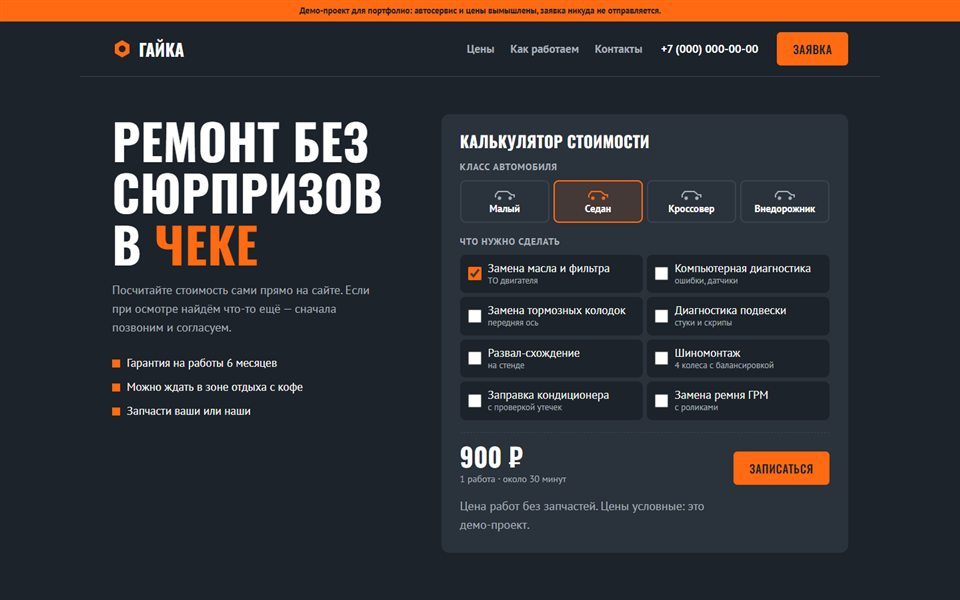
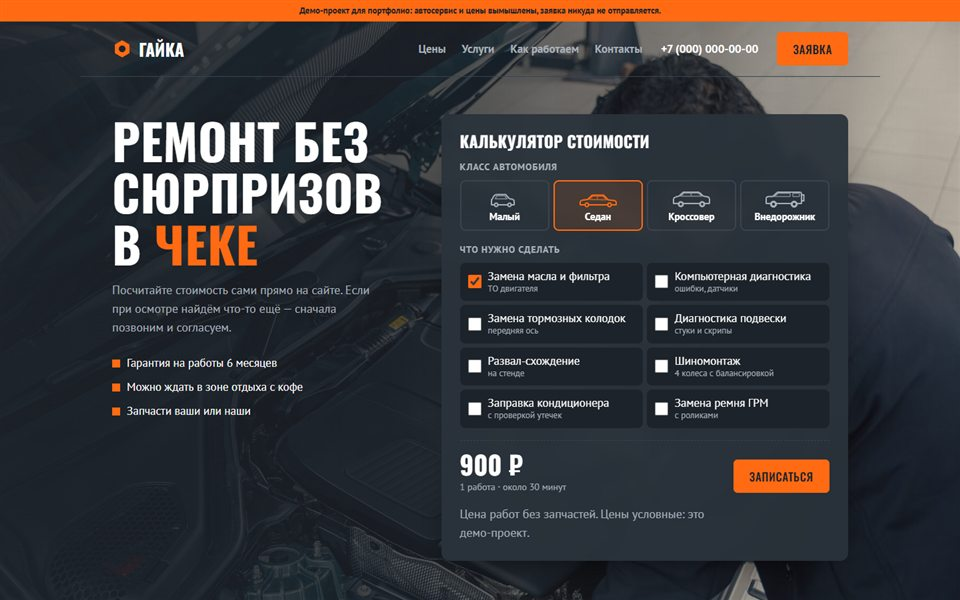
Демо-лендинги: фото с Unsplash, галереи, разные силуэты машин

diff --git a/demo-autoservice/index.html b/demo-autoservice/index.html
@@ -40,7 +40,26 @@
   .btn-signal:hover { background: var(--signal-deep); }
   .btn:disabled { opacity: .7; cursor: progress; transform: none; }
 
-  .top { background: var(--graphite); color: var(--white); }
+  .top {
+    color: var(--white);
+    background:
+      linear-gradient(90deg, rgba(29, 35, 42, .94) 0%, rgba(29, 35, 42, .78) 40%, rgba(29, 35, 42, .25) 100%),
+      url("https://images.unsplash.com/photo-1771340012378-3c86cb649193?auto=format&fit=crop&w=2000&q=70") center / cover no-repeat,
+      var(--graphite);
+  }
+  .top .calc { box-shadow: 0 30px 60px -30px rgba(0, 0, 0, .7); backdrop-filter: blur(6px); background: rgba(42, 50, 59, .94); }
+
+  /* Услуги с фото */
+  .services { display: grid; grid-template-columns: repeat(3, minmax(0, 1fr)); gap: 16px; }
+  .service { position: relative; border-radius: 12px; overflow: hidden; background: var(--graphite); color: var(--white); min-height: 320px; display: flex; align-items: flex-end; }
+  .service img { position: absolute; inset: 0; width: 100%; height: 100%; object-fit: cover; transition: transform .6s var(--ease); }
+  .service:hover img { transform: scale(1.05); }
+  .service::after { content: ""; position: absolute; inset: 0; background: linear-gradient(to top, rgba(20, 24, 29, .92) 10%, rgba(20, 24, 29, 0) 65%); }
+  .service div { position: relative; z-index: 1; padding: 22px; }
+  .service h3 { font-size: 1.5rem; margin-bottom: 4px; }
+  .service p { margin: 0; color: #cfd5dc; }
+  .service b { color: var(--signal); font: 700 1.125rem 'Oswald', sans-serif; }
+  .workshop { display: block; width: 100%; height: auto; aspect-ratio: 21 / 8; object-fit: cover; border-radius: 12px; margin-bottom: 36px; }
   .site-header { display: flex; align-items: center; gap: 28px; padding-block: 16px; border-bottom: 1px solid var(--steel-line); }
   .logo { display: flex; align-items: center; gap: 10px; font: 700 1.6rem 'Oswald', sans-serif; text-transform: uppercase; color: var(--white); text-decoration: none; }
   .site-header nav { display: flex; gap: 24px; margin-left: auto; }
@@ -61,7 +80,7 @@
   .calc h2 { font-size: 1.5rem; margin-bottom: 16px; }
   .label { display: block; margin: 0 0 8px; color: var(--muted); font-size: .875rem; font-weight: 700; text-transform: uppercase; letter-spacing: .06em; }
   .classes { display: grid; grid-template-columns: repeat(4, minmax(0, 1fr)); gap: 6px; margin-bottom: 18px; }
-  .cls { min-height: 64px; padding: 6px; border: 2px solid var(--steel-line); border-radius: 8px; background: transparent; color: var(--white); font: 700 .9375rem 'PT Sans', sans-serif; cursor: pointer; display: flex; flex-direction: column; align-items: center; justify-content: center; gap: 2px; }
+  .cls { min-height: 76px; padding: 6px; border: 2px solid var(--steel-line); border-radius: 8px; background: transparent; color: var(--white); font: 700 .9375rem 'PT Sans', sans-serif; cursor: pointer; display: flex; flex-direction: column; align-items: center; justify-content: center; gap: 2px; }
   .cls svg { color: var(--muted); }
   .cls[aria-pressed="true"] { border-color: var(--signal); background: rgba(255, 106, 19, .12); }
   .cls[aria-pressed="true"] svg { color: var(--signal); }
@@ -119,7 +138,9 @@
     .site-header nav, .phone-top { display: none; }
     .site-header { justify-content: space-between; }
     .classes { grid-template-columns: repeat(2, minmax(0, 1fr)); }
-    .works, .form-grid, .facts, .steps { grid-template-columns: minmax(0, 1fr); }
+    .works, .form-grid, .facts, .steps, .services { grid-template-columns: minmax(0, 1fr); }
+    .service { min-height: 260px; }
+    .workshop { aspect-ratio: 4 / 3; }
   }
   @media (prefers-reduced-motion: reduce) { html { scroll-behavior: auto; } * { transition: none !important; } }
 </style>
@@ -133,7 +154,7 @@
       <svg width="30" height="30" viewBox="0 0 30 30" aria-hidden="true"><path d="M15 2 26 8.5v13L15 28 4 21.5v-13Z" fill="#ff6a13"/><circle cx="15" cy="15" r="5" fill="#1d232a"/></svg>
       Гайка
     </a>
-    <nav aria-label="Разделы"><a href="#calc">Цены</a><a href="#how">Как работаем</a><a href="#contacts">Контакты</a></nav>
+    <nav aria-label="Разделы"><a href="#calc">Цены</a><a href="#services">Услуги</a><a href="#how">Как работаем</a><a href="#contacts">Контакты</a></nav>
     <span class="phone-top">+7 (000) 000-00-00</span>
     <a class="btn btn-signal" href="#request">Заявка</a>
   </header>
@@ -165,8 +186,21 @@
 </div>
 
 <main>
-  <section class="section" id="how" aria-labelledby="how-title">
+  <section class="section" id="services" aria-labelledby="services-title">
     <div class="wrap">
+      <h2 class="big" id="services-title">Чем занимаемся</h2>
+      <p class="section-lead">Обслуживание и ремонт легковых машин любых марок. Самое частое — ниже, остальное посчитает мастер по телефону.</p>
+      <div class="services">
+        <article class="service"><img src="https://images.unsplash.com/photo-1645445522156-9ac06bc7a767?auto=format&fit=crop&w=800&h=900&q=72" alt="Мастер снимает колесо" loading="lazy" width="800" height="900"><div><h3>Шиномонтаж</h3><p>Сезонная замена, балансировка, ремонт проколов — от <b>2 400 ₽</b></p></div></article>
+        <article class="service"><img src="https://images.unsplash.com/photo-1487754180451-c456f719a1fc?auto=format&fit=crop&w=800&h=900&q=72" alt="Заливка масла в двигатель" loading="lazy" width="800" height="900"><div><h3>ТО и масло</h3><p>Замена масла и фильтров за 30 минут — от <b>900 ₽</b></p></div></article>
+        <article class="service"><img src="https://images.unsplash.com/photo-1625047509248-ec889cbff17f?auto=format&fit=crop&w=800&h=900&q=72" alt="Подкапотное пространство автомобиля" loading="lazy" width="800" height="900"><div><h3>Диагностика</h3><p>Компьютерная проверка, поиск стуков и утечек — от <b>800 ₽</b></p></div></article>
+      </div>
+    </div>
+  </section>
+
+  <section class="section" id="how" aria-labelledby="how-title" style="padding-top:0">
+    <div class="wrap">
+      <img class="workshop" src="https://images.unsplash.com/photo-1767681092416-bccf9410bda4?auto=format&fit=crop&w=1800&h=690&q=70" alt="Цех автосервиса с машинами на подъёмниках" loading="lazy" width="1800" height="690">
       <h2 class="big" id="how-title">Как работаем</h2>
       <p class="section-lead">Без навязанных работ: делаем только то, что согласовали с вами.</p>
       <ol class="steps">
@@ -210,12 +244,19 @@
     </div>
   </section>
 </main>
-<footer><div class="wrap">«Гайка» — демо-проект для портфолио. Автосервис и цены вымышлены.</div></footer>
+<footer><div class="wrap">«Гайка» — демо-проект для портфолио. Автосервис и цены вымышлены. Фото: Unsplash.</div></footer>
 
 <script>
 (() => {
   const $ = (s) => document.querySelector(s);
-  const CAR = '<svg width="34" height="18" viewBox="0 0 34 18" aria-hidden="true"><path d="M3 13V9l4-5h14l6 5h4v4" fill="none" stroke="currentColor" stroke-width="2" stroke-linejoin="round"/><circle cx="9" cy="14" r="2.6" fill="currentColor"/><circle cx="25" cy="14" r="2.6" fill="currentColor"/></svg>';
+  // силуэты сбоку: от маленького трёхдверного хэтчбека до высокого внедорожника
+  const car = (body, glass, wheels, extra = '') => `<svg width="64" height="30" viewBox="0 0 64 30" aria-hidden="true"><path d="${body}" fill="none" stroke="currentColor" stroke-width="2" stroke-linejoin="round"/><path d="${glass}" fill="none" stroke="currentColor" stroke-width="1.6" stroke-linejoin="round" opacity=".7"/>${extra}${wheels.map(([x, y, r]) => `<circle cx="${x}" cy="${y}" r="${r}" fill="currentColor"/><circle cx="${x}" cy="${y}" r="${r * 0.4}" fill="var(--steel)"/>`).join('')}</svg>`;
+  const ICONS = [
+    car('M12 24H46V19Q46 16 43 15.5L39 15 33 8.5H20Q17 8.5 15.5 11L12 17Z', 'M17.5 15 20 10.5H31.5L35.5 15Z', [[19, 24, 3.6], [39, 24, 3.6]]),
+    car('M5 24H59V20Q59 18 56 17.6L47 16.5 40 9.5H23L16 16 8 17Q5 17.6 5 20Z', 'M18 16 24 11H39L44.5 16.5ZM31 11V16.3', [[15, 24, 3.8], [49, 24, 3.8]]),
+    car('M5 22H59V15Q59 12.5 56 12L50 11 43 5H20L13 11 9 12Q5 13 5 16Z', 'M15.5 11 21 6.5H42L47.5 11ZM31.5 6.5V11', [[16, 23, 4.6], [48, 23, 4.6]]),
+    car('M4 22H57V8Q57 5 54 5H21L14 11.5H8Q4 11.5 4 15Z', 'M16.5 11.5 21.8 6.8H40V11.5ZM44 6.8H54V11.5H44Z', [[15, 23, 5.2], [46, 23, 5.2]], '<path d="M57 9H60.5V18H57" fill="none" stroke="currentColor" stroke-width="2" stroke-linejoin="round"/>'),
+  ];
   const CLASSES = [['Малый', 0.85], ['Седан', 1], ['Кроссовер', 1.2], ['Внедорожник', 1.45]];
   // название, подпись, цена для седана, часы
   const WORKS = [
@@ -233,7 +274,7 @@
   const rub = (n) => `${(Math.round(n / 50) * 50).toLocaleString('ru-RU')} ₽`;
   const plural = (n, a, b, c) => { const t = n % 10, x = n % 100; return t === 1 && x !== 11 ? a : t >= 2 && t <= 4 && (x < 12 || x > 14) ? b : c; };
 
-  $('#classes').innerHTML = CLASSES.map(([n], i) => `<button type="button" class="cls" data-c="${i}" aria-pressed="${i === cls}">${CAR}${n}</button>`).join('');
+  $('#classes').innerHTML = CLASSES.map(([n], i) => `<button type="button" class="cls" data-c="${i}" aria-pressed="${i === cls}">${ICONS[i]}${n}</button>`).join('');
   document.querySelectorAll('[data-c]').forEach((b) => b.addEventListener('click', () => { cls = Number(b.dataset.c); update(); }));
   $('#works').innerHTML = WORKS.map(([n, s], i) => `<label class="work"><input type="checkbox" data-w="${i}" ${chosen.has(i) ? 'checked' : ''}><span>${n}<small>${s}</small></span></label>`).join('');
   document.querySelectorAll('[data-w]').forEach((c) => c.addEventListener('change', () => {

diff --git a/demo-nails/index.html b/demo-nails/index.html
@@ -36,6 +36,9 @@
   .btn { display: inline-flex; align-items: center; justify-content: center; min-height: 50px; padding: 0 26px; border: 0; border-radius: 999px; font: 700 1rem 'Manrope', sans-serif; text-decoration: none; cursor: pointer; transition: transform .25s var(--ease), background-color .2s; }
   .btn:hover { transform: translateY(-2px); }
   .btn-light { background: var(--white); color: var(--cherry); }
+  .btn-outline { background: transparent; color: var(--white); box-shadow: inset 0 0 0 2px rgba(255, 255, 255, .5); }
+  .btn-outline:hover { box-shadow: inset 0 0 0 2px var(--white); }
+  .hero-actions { display: flex; gap: 10px; flex-wrap: wrap; }
   .btn-cherry { background: var(--cherry); color: var(--white); }
   .btn-cherry:hover { background: var(--cherry-deep); }
   .btn:disabled { opacity: .7; cursor: progress; transform: none; }
@@ -53,6 +56,29 @@
   .hero h1 { font-size: clamp(2.4rem, 1.2rem + 4vw, 4.4rem); }
   .lead { margin: 18px 0 26px; max-width: 42ch; font-size: 1.125rem; color: var(--blush); }
 
+  /* Фото-коллаж на первом экране */
+  .collage { position: relative; padding: 0 0 32px 0; }
+  .c-main { display: block; width: 84%; height: auto; aspect-ratio: 4 / 5; object-fit: cover; border-radius: 32px; margin-left: auto; box-shadow: 0 40px 80px -40px rgba(0, 0, 0, .6); }
+  .c-small { position: absolute; left: 0; bottom: 0; width: 42%; height: auto; aspect-ratio: 1; object-fit: cover; border-radius: 24px; border: 6px solid var(--cherry); box-shadow: 0 24px 48px -24px rgba(0, 0, 0, .6); }
+  .badge { position: absolute; right: -8px; top: 28px; display: flex; align-items: center; gap: 10px; padding: 12px 18px; border-radius: 999px; background: var(--white); color: var(--ink); font-weight: 700; font-size: .9375rem; box-shadow: 0 16px 32px -16px rgba(0, 0, 0, .5); }
+
+  /* Галерея работ */
+  .gallery-sec { background: var(--petal); }
+  .sec-head { display: grid; grid-template-columns: minmax(0, 5fr) minmax(0, 7fr); gap: 12px clamp(24px, 4vw, 64px); align-items: end; margin-bottom: clamp(28px, 4vw, 48px); }
+  .sec-head h2 { margin: 0; }
+  .sec-head p { margin: 0; max-width: 52ch; color: var(--ink-soft); }
+  .gallery { display: grid; grid-template-columns: repeat(3, minmax(0, 1fr)); gap: clamp(10px, 1.6vw, 20px); }
+  .gallery figure { position: relative; margin: 0; border-radius: 22px; overflow: hidden; background: var(--blush); }
+  .gallery figure:nth-child(3n + 2) { transform: translateY(32px); }
+  .gallery img { display: block; width: 100%; height: auto; aspect-ratio: 4 / 5; object-fit: cover; transition: transform .6s var(--ease); }
+  .gallery figure:hover img { transform: scale(1.05); }
+  .gallery figcaption { position: absolute; left: 12px; bottom: 12px; padding: 7px 14px; border-radius: 999px; background: rgba(255, 255, 255, .92); color: var(--ink); font-weight: 700; font-size: .875rem; }
+  .credit { margin: 52px 0 0; color: var(--ink-soft); font-size: .8125rem; }
+
+  /* Подбор цвета */
+  .studio-sec { background: var(--cherry); color: var(--white); }
+  .studio-grid { display: grid; grid-template-columns: minmax(0, 5fr) minmax(0, 6fr); gap: 32px clamp(24px, 5vw, 72px); align-items: center; }
+  .studio-sec h2 { margin-bottom: 0; }
   .studio { background: var(--cherry-deep); border-radius: 28px; padding: clamp(18px, 2.4vw, 28px); }
   .fingers { display: block; width: 100%; height: auto; }
   .fingers .nail { transition: fill .5s var(--ease); }
@@ -119,7 +145,11 @@
   footer { background: var(--ink); color: var(--blush); font-size: .875rem; padding-block: 0 28px; opacity: .85; }
 
   @media (max-width: 900px) {
-    .hero-grid, .booking-grid { grid-template-columns: minmax(0, 1fr); }
+    .hero-grid, .booking-grid, .studio-grid, .sec-head { grid-template-columns: minmax(0, 1fr); }
+    .gallery { grid-template-columns: repeat(2, minmax(0, 1fr)); }
+    .gallery figure:nth-child(3n + 2) { transform: none; }
+    .credit { margin-top: 20px; }
+    .badge { right: 0; }
     .prices { grid-template-columns: minmax(0, 1fr); }
   }
   @media (max-width: 680px) {
@@ -137,17 +167,52 @@
 <div class="hero">
   <header class="wrap site-header">
     <a class="logo" href="#top">Палитра</a>
-    <nav aria-label="Разделы"><a href="#prices">Цены</a><a href="#masters">Мастера</a><a href="#contacts">Контакты</a></nav>
+    <nav aria-label="Разделы"><a href="#works">Работы</a><a href="#prices">Цены</a><a href="#masters">Мастера</a><a href="#contacts">Контакты</a></nav>
     <a class="btn btn-light" href="#booking">Записаться</a>
   </header>
 
   <section class="wrap hero-grid" aria-labelledby="hero-title">
     <div>
       <h1 id="hero-title">Маникюр в цвете вашего настроения</h1>
-      <p class="lead">Студия маникюра и педикюра. Выберите оттенок прямо здесь — мастер подготовит его к вашему визиту.</p>
-      <a class="btn btn-light" href="#booking">Записаться онлайн</a>
+      <p class="lead">Студия маникюра и педикюра. Подберите оттенок прямо на сайте — мастер подготовит его к вашему визиту.</p>
+      <div class="hero-actions"><a class="btn btn-light" href="#booking">Записаться онлайн</a><a class="btn btn-outline" href="#color">Подобрать цвет</a></div>
     </div>
 
+    <div class="collage">
+      <img class="c-main" src="https://images.unsplash.com/photo-1632345031435-8727f6897d53?auto=format&fit=crop&w=1000&h=1250&q=75" alt="Мастер делает маникюр клиентке" width="1000" height="1250">
+      <img class="c-small" src="https://images.unsplash.com/photo-1607779097040-26e80aa78e66?auto=format&fit=crop&w=600&h=600&q=75" alt="Маникюр с лавандовым покрытием и блёстками" width="600" height="600">
+      <div class="badge">
+        <svg width="22" height="22" viewBox="0 0 22 22" aria-hidden="true"><circle cx="11" cy="11" r="10" fill="#6d0f2a"/><path d="m6.5 11.3 3 3 6-6.6" fill="none" stroke="#fff" stroke-width="2.2" stroke-linecap="round" stroke-linejoin="round"/></svg>
+        Онлайн-запись за 1 минуту
+      </div>
+    </div>
+  </section>
+</div>
+
+<section class="section gallery-sec" id="works" aria-labelledby="works-title">
+  <div class="wrap">
+    <div class="sec-head">
+      <h2 id="works-title">Наши работы</h2>
+      <p>От аккуратного нюда до авторской росписи. Покажите мастеру понравившийся дизайн — повторим или придумаем ваш.</p>
+    </div>
+    <div class="gallery">
+      <figure><img src="https://images.unsplash.com/photo-1604654894610-df63bc536371?auto=format&fit=crop&w=700&h=875&q=75" alt="Черепаховый дизайн ногтей" loading="lazy" width="700" height="875"><figcaption>Черепаховый дизайн</figcaption></figure>
+      <figure><img src="https://images.unsplash.com/photo-1610992015762-45dca7fa3a85?auto=format&fit=crop&w=700&h=875&q=75" alt="Натуральный нюдовый маникюр" loading="lazy" width="700" height="875"><figcaption>Натуральный нюд</figcaption></figure>
+      <figure><img src="https://images.unsplash.com/photo-1571290274554-6a2eaa771e5f?auto=format&fit=crop&w=700&h=875&q=75" alt="Яркая авторская роспись ногтей" loading="lazy" width="700" height="875"><figcaption>Авторская роспись</figcaption></figure>
+      <figure><img src="https://images.unsplash.com/photo-1612887390768-fb02affea7a6?auto=format&fit=crop&w=700&h=875&q=75" alt="Розовый маникюр миндальной формы" loading="lazy" width="700" height="875"><figcaption>Розовый миндаль</figcaption></figure>
+      <figure><img src="https://images.unsplash.com/photo-1630843599725-32ead7671867?auto=format&fit=crop&w=700&h=875&q=75" alt="Молочный маникюр и тонкое кольцо" loading="lazy" width="700" height="875"><figcaption>Молочный минимализм</figcaption></figure>
+      <figure><img src="https://images.unsplash.com/photo-1736434518489-0eb84070017f?auto=format&fit=crop&w=700&h=875&q=75" alt="Маникюр цвета капучино" loading="lazy" width="700" height="875"><figcaption>Тёплый капучино</figcaption></figure>
+    </div>
+    <p class="credit">Фото: Unsplash</p>
+  </div>
+</section>
+
+<section class="section studio-sec" id="color" aria-labelledby="color-title">
+  <div class="wrap studio-grid">
+    <div>
+      <h2 id="color-title">Подберите цвет до визита</h2>
+      <p class="lead">Нажмите на оттенок и посмотрите, как он смотрится на ногтях. Выбранный цвет попадёт в запись, и мастер подготовит его заранее.</p>
+    </div>
     <div class="studio" id="studio">
       <svg class="fingers" viewBox="0 0 400 260" role="img" aria-label="Пальцы с покрытием выбранного цвета">
         <g id="fingers"></g>
@@ -162,8 +227,8 @@
       <div class="swatches" id="swatches" role="group" aria-label="Оттенки"></div>
       <button type="button" class="btn btn-light" id="book-color">Записаться с этим цветом</button>
     </div>
-  </section>
-</div>
+  </div>
+</section>
 
 <main>
   <section class="section" id="prices" aria-labelledby="prices-title">
@@ -221,7 +286,7 @@
     </div>
   </section>
 </main>
-<footer><div class="wrap">«Палитра» — демо-проект для портфолио. Студия и цены вымышлены.</div></footer>
+<footer><div class="wrap">«Палитра» — демо-проект для портфолио. Студия и цены вымышлены. Фото: Unsplash.</div></footer>
 
 <script>
 (() => {

diff --git a/demo-fitness/index.html b/demo-fitness/index.html
@@ -48,8 +48,21 @@
   .site-header nav a:hover { color: var(--forest); }
   .site-header .btn { min-height: 44px; padding: 0 18px; }
 
-  .hero { padding-block: clamp(20px, 3vw, 40px) clamp(32px, 4vw, 48px); display: grid; grid-template-columns: minmax(0, 7fr) minmax(0, 5fr); gap: 20px clamp(24px, 4vw, 64px); align-items: end; }
-  .hero h1 { font-size: clamp(2.6rem, 1rem + 5.4vw, 5.6rem); font-weight: 800; }
+  .hero { padding-block: clamp(20px, 3vw, 40px) clamp(40px, 5vw, 64px); display: grid; grid-template-columns: minmax(0, 5fr) minmax(0, 6fr); gap: 32px clamp(24px, 4vw, 64px); align-items: center; }
+  .hero h1 { font-size: clamp(2.6rem, 1rem + 4.4vw, 5rem); font-weight: 800; margin-bottom: 20px; }
+  .hero-photo { position: relative; padding-bottom: 40px; }
+  .hp-main { display: block; width: 100%; height: auto; aspect-ratio: 11 / 9; object-fit: cover; border-radius: 28px; }
+  .hp-small { position: absolute; left: -28px; bottom: 0; width: 34%; height: auto; aspect-ratio: 5 / 6; object-fit: cover; border-radius: 20px; border: 6px solid var(--sage); }
+  .hp-chip { position: absolute; right: 18px; bottom: 58px; padding: 12px 18px; border-radius: 16px; background: var(--white); font-size: .9375rem; color: var(--forest-soft); box-shadow: 0 16px 32px -16px rgba(22, 53, 42, .5); }
+  .hp-chip b { color: var(--violet); font-size: 1.4rem; font-weight: 800; margin-right: 4px; }
+
+  .kind img { display: block; width: 100%; height: auto; aspect-ratio: 7 / 5.2; object-fit: cover; border-radius: 18px; margin-bottom: 18px; }
+  .hall { padding-bottom: clamp(64px, 9vw, 112px); }
+  .hall-fig { position: relative; margin: 0; border-radius: 28px; overflow: hidden; }
+  .hall-fig img { display: block; width: 100%; height: auto; aspect-ratio: 18 / 8.6; object-fit: cover; }
+  .hall-fig figcaption { position: absolute; left: 0; right: 0; bottom: 0; padding: clamp(20px, 4vw, 48px); color: var(--white); background: linear-gradient(to top, rgba(10, 26, 20, .92) 0%, rgba(10, 26, 20, .7) 55%, rgba(10, 26, 20, 0) 100%); padding-top: 120px; }
+  .hall-fig h2 { font-size: clamp(1.6rem, 1rem + 2vw, 2.6rem); font-weight: 800; margin-bottom: 8px; }
+  .hall-fig p { margin: 0; max-width: 52ch; color: #e1ebdc; }
   .hero h1 em { font-style: normal; color: var(--violet); }
   .hero p { margin: 0 0 20px; max-width: 40ch; font-size: 1.125rem; color: var(--forest-soft); }
   .offer { display: flex; gap: 10px; flex-wrap: wrap; }
@@ -123,6 +136,8 @@
     .hero, .trial-grid { grid-template-columns: minmax(0, 1fr); }
     .week { grid-template-columns: repeat(7, minmax(120px, 1fr)); overflow-x: auto; padding-bottom: 6px; }
     .kinds, .plans { grid-template-columns: minmax(0, 1fr); }
+    .hp-small { left: 0; }
+    .hall-fig img { aspect-ratio: 4 / 5; }
   }
   @media (max-width: 680px) {
     .site-header nav { display: none; }
@@ -146,14 +161,19 @@
 
 <main>
   <section class="wrap hero" aria-labelledby="hero-title">
-    <h1 id="hero-title">Йога и пилатес <em>рядом с домом</em></h1>
     <div>
+      <h1 id="hero-title">Йога и пилатес <em>рядом с домом</em></h1>
       <p>Небольшие группы до 10 человек. Выберите занятие в расписании — первое пробное за 500 ₽.</p>
-      <div class="offer"><a class="btn btn-violet" href="#trial">Записаться на пробное</a></div>
+      <div class="offer"><a class="btn btn-violet" href="#trial">Записаться на пробное</a><a class="btn btn-ghost" href="#schedule">Расписание</a></div>
+    </div>
+    <div class="hero-photo">
+      <img class="hp-main" src="https://images.unsplash.com/photo-1787647089633-37e49ee2e054?auto=format&fit=crop&w=1100&h=900&q=75" alt="Групповое занятие йогой в светлом зале" width="1100" height="900">
+      <img class="hp-small" src="https://images.unsplash.com/photo-1747239069226-55382c570116?auto=format&fit=crop&w=500&h=600&q=75" alt="Занятие пилатесом на реформере" width="500" height="600">
+      <div class="hp-chip"><b>10</b> человек в группе — максимум</div>
     </div>
   </section>
 
-  <section class="wrap" aria-labelledby="sched-title">
+  <section class="wrap" id="schedule" aria-labelledby="sched-title">
     <div class="schedule">
       <div class="sched-head">
         <h2 id="sched-title">Расписание на неделю</h2>
@@ -169,10 +189,22 @@
       <h2 class="big" id="kinds-title">Направления</h2>
       <p class="section-lead">Подойдут и тем, кто никогда не занимался: тренер подскажет облегчённые варианты.</p>
       <div class="kinds">
-        <div class="kind" style="--c:var(--yoga)"><h3>Йога</h3><p>Хатха и мягкая виньяса: гибкость, дыхание, спокойная голова после работы.</p></div>
-        <div class="kind" style="--c:var(--pilates)"><h3>Пилатес</h3><p>Мышцы кора и правильная осанка. Хорошо для спины и тех, кто много сидит.</p></div>
-        <div class="kind" style="--c:var(--stretch)"><h3>Растяжка</h3><p>Плавная работа над шпагатами и подвижностью суставов без рывков.</p></div>
+        <div class="kind" style="--c:var(--yoga)"><img src="https://images.unsplash.com/photo-1552196563-55cd4e45efb3?auto=format&fit=crop&w=700&h=520&q=75" alt="Девушка сидит в позе йоги" loading="lazy" width="700" height="520"><h3>Йога</h3><p>Хатха и мягкая виньяса: гибкость, дыхание, спокойная голова после работы.</p></div>
+        <div class="kind" style="--c:var(--pilates)"><img src="https://images.unsplash.com/photo-1747238415033-b74eec07eb59?auto=format&fit=crop&w=700&h=520&q=75" alt="Упражнение пилатеса на реформере" loading="lazy" width="700" height="520"><h3>Пилатес</h3><p>Мышцы кора и правильная осанка. Хорошо для спины и тех, кто много сидит.</p></div>
+        <div class="kind" style="--c:var(--stretch)"><img src="https://images.unsplash.com/photo-1683056255281-e52a141924f0?auto=format&fit=crop&w=700&h=520&q=75" alt="Группа делает растяжку на ковриках" loading="lazy" width="700" height="520"><h3>Растяжка</h3><p>Плавная работа над шпагатами и подвижностью суставов без рывков.</p></div>
       </div>
+    </div>
+  </section>
+
+  <section class="hall" aria-labelledby="hall-title">
+    <div class="wrap">
+      <figure class="hall-fig">
+        <img src="https://images.unsplash.com/photo-1783841193384-4269c68aa050?auto=format&fit=crop&w=1800&h=860&q=75" alt="Светлый зал студии с реформерами" loading="lazy" width="1800" height="860">
+        <figcaption>
+          <h2 id="hall-title">Светлый зал на втором этаже</h2>
+          <p>Коврики, блоки, ремни и реформеры — всё есть в студии. Приходите в удобной одежде, остальное найдётся.</p>
+        </figcaption>
+      </figure>
     </div>
   </section>
 
@@ -219,7 +251,7 @@
     </div>
   </section>
 </main>
-<footer class="wrap">«Поток» — демо-проект для портфолио. Студия, тренеры и цены вымышлены.</footer>
+<footer class="wrap">«Поток» — демо-проект для портфолио. Студия, тренеры и цены вымышлены. Фото: Unsplash.</footer>
 
 <script>
 (() => {
